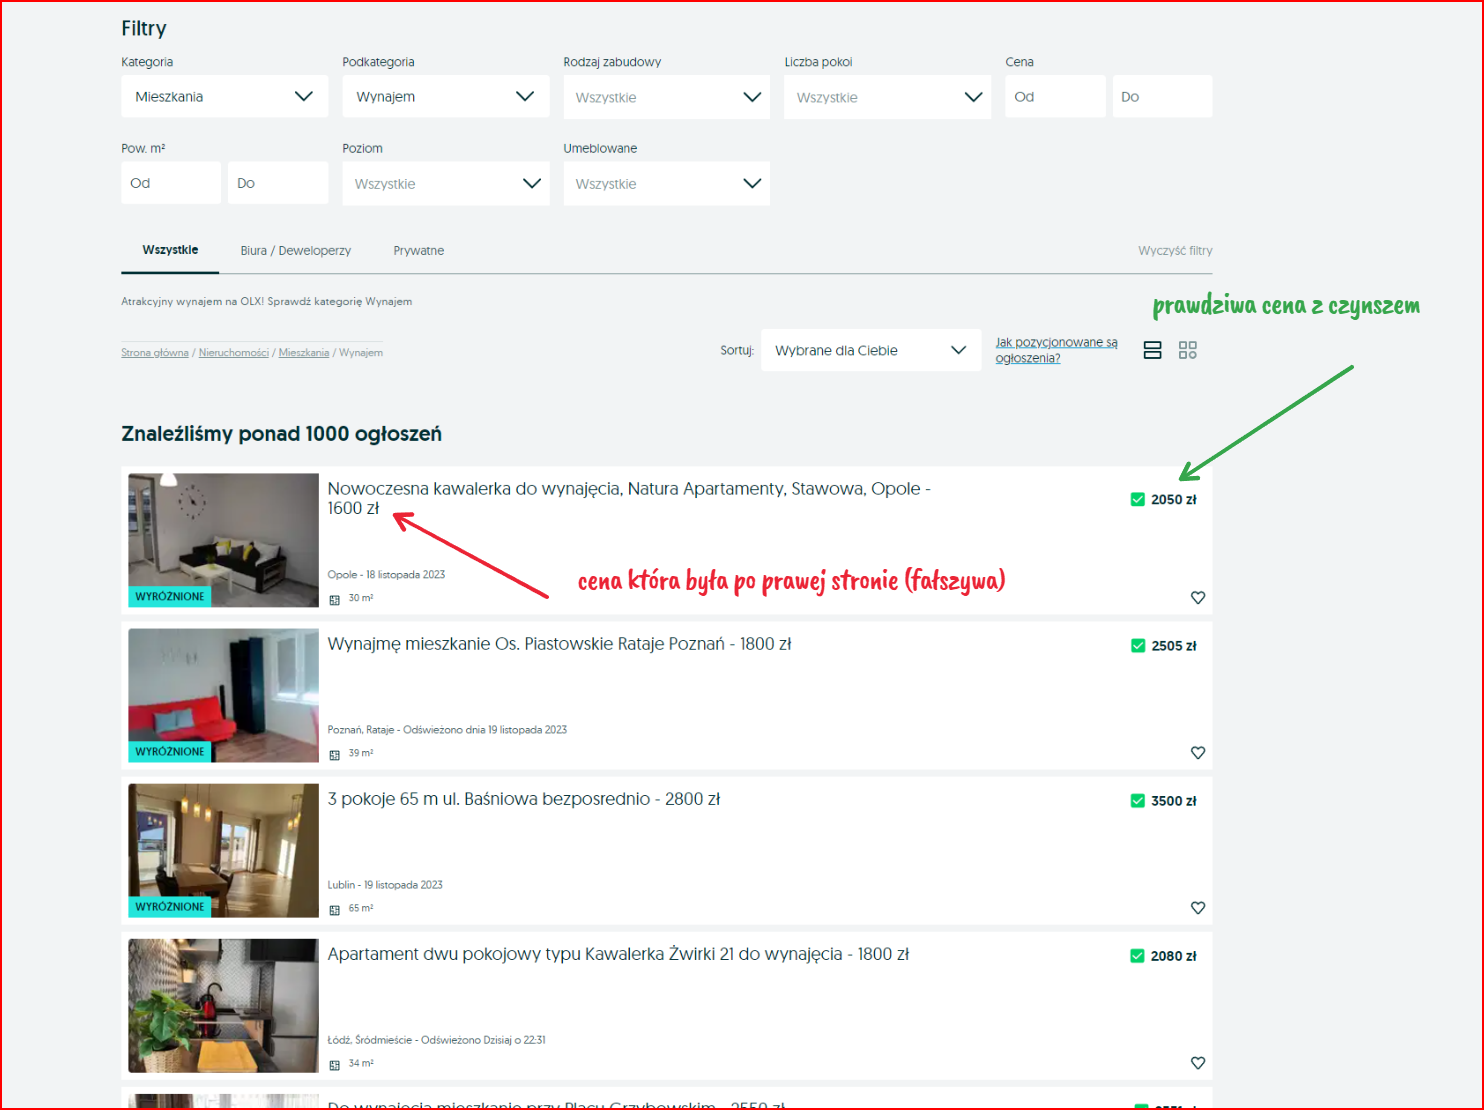
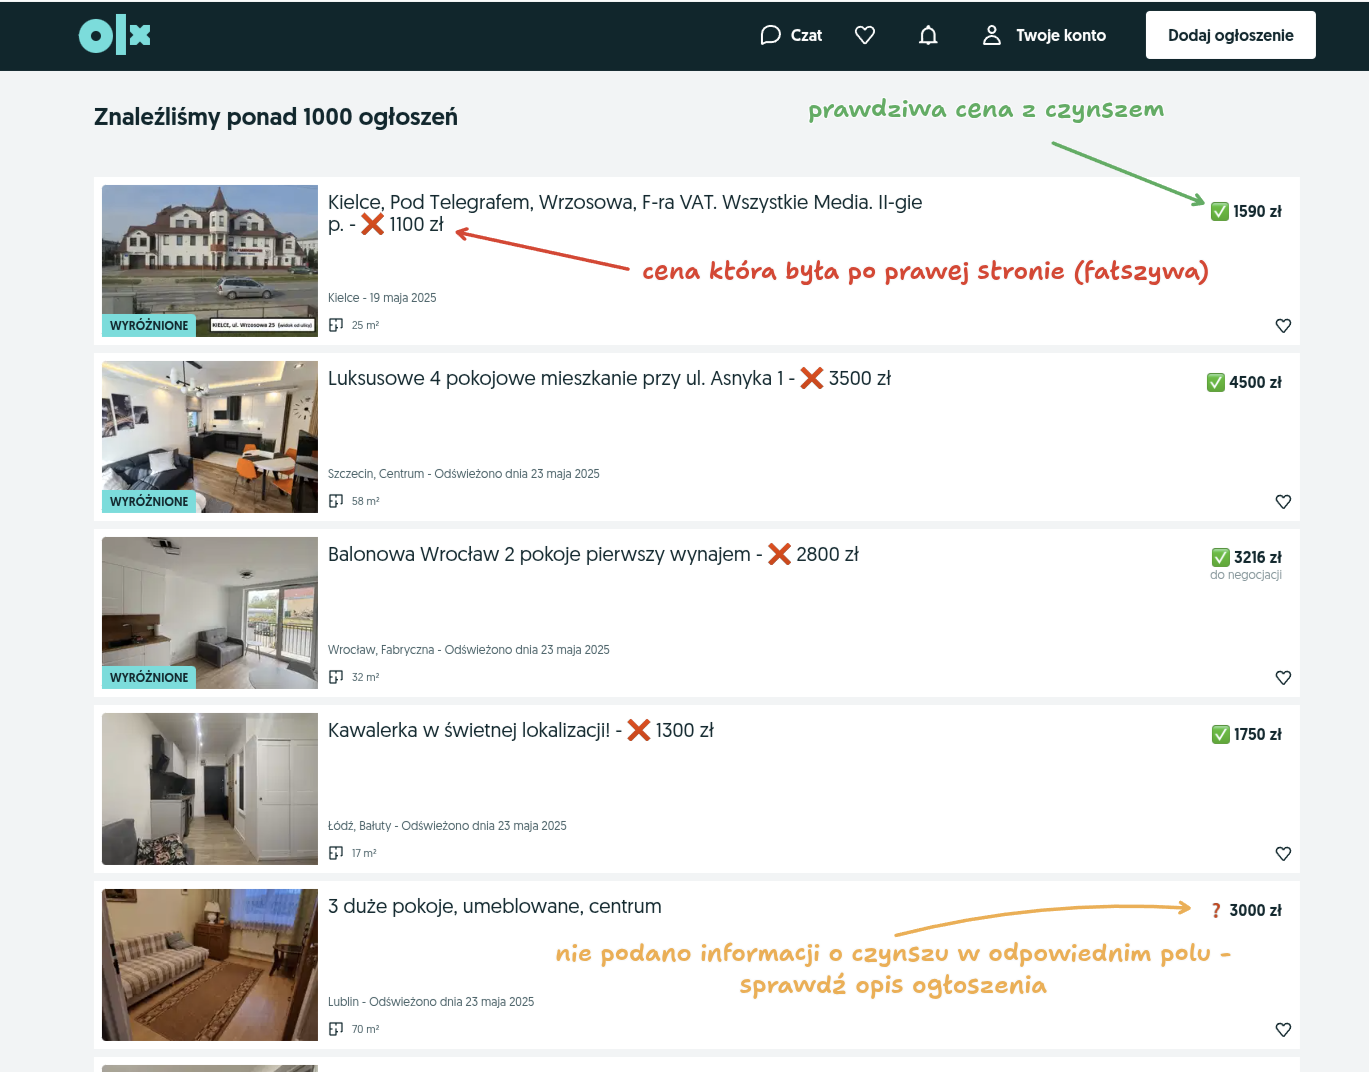
update ui, support "all" category

diff --git a/userscript.js b/userscript.js
@@ -9,16 +9,13 @@
 // @grant        none
 // ==/UserScript==
 
+// original console object machen (without tracking)
+const console = window.console;
+
 const rentCategoryId = "15";
 
-function patchPrice(rentlessPrice, rent) {
-  return rent == null
-    ? "poszukaj w opisie Xddd"
-    : `✅ ${Math.ceil(rentlessPrice + parseFloat(rent))} zł`;
-}
-
 function patchTitle(title, rentlessPrice) {
-  return `${title} - ${rentlessPrice} zł`;
+  return `${title} - ❌ ${rentlessPrice} zł`;
 }
 
 function interceptPwaLazyOffers() {
@@ -39,19 +36,12 @@ async function interceptFetchResponse(url, options, resp) {
       options?.body != null
     ) {
       const postBody = JSON.parse(options.body);
-      if (
-        postBody.query?.startsWith("query ListingSearchQuery") &&
-        postBody.variables?.searchParameters?.some(
-          (param) =>
-            param.key === "category_id" && param.value === rentCategoryId
-        )
-      ) {
+      if (postBody.query?.startsWith("query ListingSearchQuery")) {
         return await patchListingResponse(resp);
       }
     }
   } catch (ex) {
-    // original console object machen without tracking
-    window.console.error("patch gql response error:", ex);
+    console.error("patch gql response error:", ex);
   }
   return resp;
 }
@@ -68,23 +58,38 @@ async function patchListingResponse(resp) {
 }
 
 function patchOffer(offer) {
-  offer.params = offer.params.map((param) => {
-    if (param.key === "price") {
-      const rentlessPrice = param.value.value;
-      const rent = offer.params.find((param) => param.key === "rent")?.value
-        ?.key;
-      return {
-        ...param,
-        value: {
-          ...param.value,
-          label: patchPrice(rentlessPrice, rent),
-        },
-      };
-    } else {
-      return param;
+  try {
+    if (offer.category?.id === 15) {
+      const priceParam = offer.params.find((param) => param.key === "price");
+      const price = priceParam?.value?.value;
+      if (price !== undefined) {
+        const mods = getRentOfferModifications({
+          title: offer.title,
+          price,
+          rent: offer.params.find((param) => param.key === "rent")?.value?.key,
+        });
+        offer.title = mods.title ?? offer.title;
+        priceParam.value.label = mods.priceLabel;
+      }
     }
-  });
+  } catch (ex) {
+    console.error("patch offer error:", ex);
+  }
   return offer;
+}
+
+function getRentOfferModifications({ title, price, rent }) {
+  if (rent == null) {
+    return {
+      priceLabel: `❓ ${Math.ceil(price)} zł`,
+    };
+  } else {
+    const fullPrice = price + parseFloat(rent);
+    return {
+      priceLabel: `✅ ${Math.ceil(fullPrice)} zł`,
+      title: patchTitle(title, price),
+    };
+  }
 }
 
 function patchPrerenderedState() {
@@ -101,21 +106,18 @@ function patchPrerenderedState() {
   }
   prerenderedState.listing.listing.ads =
     prerenderedState.listing.listing.ads.map((offer) => {
-      const rentlessPrice = offer.price.regularPrice?.value;
-      if (rentlessPrice == null) {
-        return offer;
+      const price = offer.price.regularPrice?.value;
+      if (price != null) {
+        const mods = getRentOfferModifications({
+          title: offer.title,
+          price,
+          rent: offer.params.find((param) => param.key === "rent")
+            ?.normalizedValue,
+        });
+        offer.price.displayValue = mods.priceLabel;
+        offer.title = mods.title ?? offer.title;
       }
-      return {
-        ...offer,
-        title: patchTitle(offer.title, rentlessPrice),
-        price: {
-          ...offer.price,
-          displayValue: patchPrice(
-            rentlessPrice,
-            offer.params.find((param) => param.key === "rent")?.normalizedValue
-          ),
-        },
-      };
+      return offer;
     });
   window.__PRERENDERED_STATE__ = JSON.stringify(prerenderedState);
 }

diff --git a/README.md b/README.md
@@ -1,7 +1,4 @@
 Userscript do wtyczki [tampermonkey](https://www.tampermonkey.net/) naprawiający stronę [OLX.pl](https://www.olx.pl/) tak
 aby pokazywała ona prawdziwą cenę wynajmowanych mieszkań.
 
-Aby skrypt poprawiał ceny musi być wybrana podkategoria ``Wynajem``.
-![Wybrana kategoria mieszkania, a podkategoria wynajem](filtry.png)
-
 ![Podgląd na olx](preview.png)
